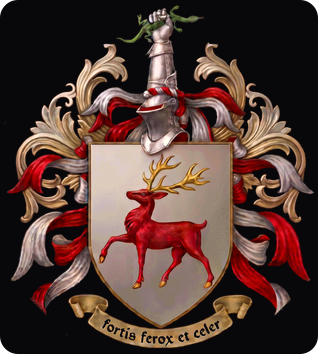
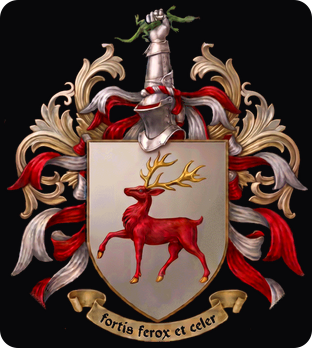
fix(web): 2px signature border, regular-weight contact lines and grouped spacing
The accent border goes to 2px. Only the name, role and button stay bold; the
email and phone drop to regular weight, the email still in crimson. Rows are
grouped: name and role sit together, with more room around the divider and
above the button row. The photo is 88x116 and the crest 104x116.

diff --git a/app/web/public/sig/framed/marcm.html b/app/web/public/sig/framed/marcm.html
@@ -5,7 +5,7 @@
   cellspacing="0"
   border="0"
   width="500"
-  style="width:500px;border-collapse:separate;background:#f5f5f7;border:1px solid #ff7a00;border-radius:6px"
+  style="width:500px;border-collapse:separate;background:#f5f5f7;border:2px solid #ff7a00;border-radius:6px"
 >
   <tr>
     <td style="padding: 5px">
@@ -14,36 +14,36 @@
         cellpadding="0"
         cellspacing="0"
         border="0"
-        width="488"
-        style="width: 488px; border-collapse: collapse"
+        width="486"
+        style="width: 486px; border-collapse: collapse"
       >
         <tr>
-          <td width="90" valign="top" style="width:90px;line-height:0"><img src="https://mccorlabs.com/sig/framed/marcm-card.png" width="90" height="118" alt="Marc McCarthy" style="display:block;border:0;width:90px;height:118px"></td>
+          <td width="88" valign="top" style="width:88px;line-height:0"><img src="https://mccorlabs.com/sig/framed/marcm-card.png" width="88" height="116" alt="Marc McCarthy" style="display:block;border:0;width:88px;height:116px"></td>
 
           <td
             valign="top"
-            style="width:258px;padding:0 16px 0 18px;font-family:'Helvetica Neue',Helvetica,Arial,sans-serif"
+            style="width:260px;padding:0 16px 0 18px;font-family:'Helvetica Neue',Helvetica,Arial,sans-serif"
           >
             <div
-              style="font-size:18px;line-height:16px;font-weight:700;color:#08080a;letter-spacing:-0.2px;white-space:nowrap"
+              style="font-size:18px;line-height:18px;font-weight:700;color:#08080a;letter-spacing:-0.2px;white-space:nowrap"
             >
               Marc McCarthy
             </div>
             <div
-              style="font-size:10px;line-height:12px;letter-spacing:1px;color:#991b1b;text-transform:uppercase;font-weight:700;padding-top:4px;white-space:nowrap"
+              style="font-size:10px;line-height:12px;letter-spacing:1px;color:#991b1b;text-transform:uppercase;font-weight:700;padding-top:2px;white-space:nowrap"
             >
               Founder, McCor Labs
             </div>
-            <div style="font-size:12px;line-height:14px;color:#08080a;padding-top:4px">Full-Stack AI Engineer</div>
+            <div style="font-size:12px;line-height:14px;color:#08080a;padding-top:3px">Full-Stack AI Engineer</div>
 
             <div
-              style="border-top:1px solid #6b6b7b;font-size:1px;line-height:1px;height:1px;margin-top:7px"
+              style="border-top:1px solid #6b6b7b;font-size:1px;line-height:1px;height:1px;margin-top:5px"
             >
               &nbsp;
             </div>
-            <div style="font-size:12px;line-height:14px;color:#991b1b;padding-top:5px;font-weight:700"><a href="mailto:marcm@mccorlabs.com" style="color:#991b1b;text-decoration:none;font-weight:700">marcm@mccorlabs.com</a></div>
-<div style="font-size:12px;line-height:14px;color:#08080a;padding-top:3px;font-weight:700"><a href="tel:+16124057144" style="color:#08080a;text-decoration:none;font-weight:700">(612) 405-7144</a></div>
-<div style="padding-top:3px"><table role="presentation" cellpadding="0" cellspacing="0" border="0"><tr>
+            <div style="font-size:12px;line-height:14px;color:#991b1b;padding-top:5px"><a href="mailto:marcm@mccorlabs.com" style="color:#991b1b;text-decoration:none">marcm@mccorlabs.com</a></div>
+<div style="font-size:12px;line-height:14px;color:#08080a;padding-top:2px"><a href="tel:+16124057144" style="color:#08080a;text-decoration:none">(612) 405-7144</a></div>
+<div style="padding-top:5px"><table role="presentation" cellpadding="0" cellspacing="0" border="0"><tr>
 <td bgcolor="#991b1b" style="background:#991b1b;border-radius:3px;padding:4px 11px 5px;font-family:'Helvetica Neue',Helvetica,Arial,sans-serif;font-size:10px;line-height:11px;font-weight:700;letter-spacing:1px;text-transform:uppercase;white-space:nowrap"><a href="https://cal.com/mccorlabs" style="color:#f5f5f7;text-decoration:none">Book a call</a></td>
 <td valign="middle" style="padding-left:12px;line-height:0"><a href="https://mccorlabs.com"><img src="https://mccorlabs.com/sig/framed/card-icon-mccor.png" width="20" height="20" alt="McCor Labs" style="display:block;border:0;width:20px;height:20px"></a></td>
 <td valign="middle" style="padding-left:7px;line-height:0"><a href="https://www.linkedin.com/in/the-marc-mccarthy"><img src="https://mccorlabs.com/sig/framed/card-icon-linkedin.png" width="20" height="20" alt="LinkedIn" style="display:block;border:0;width:20px;height:20px"></a></td>
@@ -52,16 +52,16 @@
 
           </td>
           <td
-            width="106"
+            width="104"
             valign="top"
-            style="width:106px;line-height:0"
+            style="width:104px;line-height:0"
           >
             <img
               src="https://mccorlabs.com/sig/framed/card-crest.png"
-              width="106"
-              height="118"
+              width="104"
+              height="116"
               alt="McCarthy coat of arms"
-              style="display:block;border:0;width:106px;height:118px"
+              style="display:block;border:0;width:104px;height:116px"
             />
           </td>
         </tr>

diff --git a/app/web/scripts/signature/signature.ts b/app/web/scripts/signature/signature.ts
@@ -54,22 +54,22 @@ const FRAMED_PHOTO: Box = { width: 95, height: 131 }
 const FRAMED_ICON: Box = { width: 24, height: 56 }
 const FRAMED_LINES = {
   specialty: { size: 10, lineHeight: 13, gap: 6, bold: false },
-  email: { size: 11, lineHeight: 14, gap: 0, bold: false },
-  phone: { size: 11, lineHeight: 15, gap: 3, bold: false },
+  email: { size: 11, lineHeight: 14, gap: 0, bold: true },
+  phone: { size: 11, lineHeight: 15, gap: 3, bold: true },
 } satisfies Record<string, LineStyle>
 
-export const CARD_PHOTO: Box = { width: 90, height: 118 }
-export const CARD_CREST: Box = { width: 106, height: 118 }
+export const CARD_PHOTO: Box = { width: 88, height: 116 }
+export const CARD_CREST: Box = { width: 104, height: 116 }
 export const CARD_ICON: Box = { width: 20, height: 20 }
-const CARD_INNER = 488
+const CARD_INNER = 486
 const CARD_TEXT_GAP = 18
 const CARD_TEXT_END = 16
 const CARD_TEXT =
   CARD_INNER - CARD_PHOTO.width - CARD_CREST.width - CARD_TEXT_GAP - CARD_TEXT_END
 const CARD_LINES = {
-  specialty: { size: 12, lineHeight: 14, gap: 4, bold: false },
-  email: { size: 12, lineHeight: 14, gap: 5, bold: true },
-  phone: { size: 12, lineHeight: 14, gap: 3, bold: true },
+  specialty: { size: 12, lineHeight: 14, gap: 3, bold: false },
+  email: { size: 12, lineHeight: 14, gap: 5, bold: false },
+  phone: { size: 12, lineHeight: 14, gap: 2, bold: false },
 } satisfies Record<string, LineStyle>
 
 const REQUIRED_KEYS = ['slug', 'name', 'title', 'email'] as const
@@ -153,23 +153,23 @@ function fillTemplate(template: string, values: Record<string, string>): string 
 
 function line(body: string, ink: string, style: LineStyle): string {
   const gap = style.gap > 0 ? `;padding-top:${String(style.gap)}px` : ''
-  const weight = style.bold ? ';font-weight:700' : ''
-  return `<div style="font-size:${String(style.size)}px;line-height:${String(style.lineHeight)}px;color:${ink}${gap}${weight}">${body}</div>\n`
+  return `<div style="font-size:${String(style.size)}px;line-height:${String(style.lineHeight)}px;color:${ink}${gap}">${body}</div>\n`
 }
 
-function link(href: string, text: string, ink: string): string {
-  return `<a href="${href}" style="color:${ink};text-decoration:none;font-weight:700">${text}</a>`
+function link(href: string, text: string, ink: string, bold: boolean): string {
+  const weight = bold ? ';font-weight:700' : ''
+  return `<a href="${href}" style="color:${ink};text-decoration:none${weight}">${text}</a>`
 }
 
 function emailLine(email: string, ink: string, style: LineStyle): string {
   const address = escapeHtml(email)
-  return line(link(`mailto:${address}`, address, ink), ink, style)
+  return line(link(`mailto:${address}`, address, ink, style.bold), ink, style)
 }
 
 function phoneLine(phone: string | undefined, ink: string, style: LineStyle): string {
   if (!phone) return ''
   const shown = escapeHtml(phone.replace(US_PREFIX, ''))
-  return line(link(`tel:${phoneHref(phone)}`, shown, ink), ink, style)
+  return line(link(`tel:${phoneHref(phone)}`, shown, ink, style.bold), ink, style)
 }
 
 function specialtyLine(specialty: string, ink: string, style: LineStyle): string {
@@ -286,7 +286,7 @@ function cardActions(person: Person, ctx: SignatureContext): string {
     )
   })
   const button = person.booking ? [buttonCell(person.booking, ctx, '4px 11px 5px')] : []
-  return `<div style="padding-top:3px"><table role="presentation" cellpadding="0" cellspacing="0" border="0"><tr>\n${[...button, ...icons].join('\n')}\n</tr></table></div>\n`
+  return `<div style="padding-top:5px"><table role="presentation" cellpadding="0" cellspacing="0" border="0"><tr>\n${[...button, ...icons].join('\n')}\n</tr></table></div>\n`
 }
 
 function cardContact(person: Person, ctx: SignatureContext, ink: string): string {

diff --git a/app/web/scripts/signature/signature.test.ts b/app/web/scripts/signature/signature.test.ts
@@ -243,19 +243,19 @@ describe('renderCardSignature', () => {
     expect(html).toContain('width="500"')
   })
 
-  it('frames the light card in one thin accent line', () => {
+  it('frames the light card in one 2px accent line', () => {
     expect(html).toContain(
-      `background:${ctx.tokens.text ?? ''};border:1px solid ${ctx.tokens.accent ?? ''};border-radius:6px`,
+      `background:${ctx.tokens.text ?? ''};border:2px solid ${ctx.tokens.accent ?? ''};border-radius:6px`,
     )
-    expect(html.match(/border:1px solid/g)).toHaveLength(1)
+    expect(html.match(/border:2px solid/g)).toHaveLength(1)
   })
 
-  it('links the 90 by 118 photo, the 106 by 118 crest and the 20px icons', () => {
+  it('links the 88 by 116 photo, the 104 by 116 crest and the 20px icons', () => {
     expect(html).toContain(
-      '<img src="https://mccorlabs.com/sig/framed/marcm-card.png" width="90" height="118"',
+      '<img src="https://mccorlabs.com/sig/framed/marcm-card.png" width="88" height="116"',
     )
     expect(flat(html)).toContain(
-      '<img src="https://mccorlabs.com/sig/framed/card-crest.png" width="106" height="118"',
+      '<img src="https://mccorlabs.com/sig/framed/card-crest.png" width="104" height="116"',
     )
     for (const key of ['mccor', 'linkedin', 'github'])
       expect(html).toContain(
@@ -269,15 +269,15 @@ describe('renderCardSignature', () => {
   })
 
   it('widens the text cell to fill the photo column when there is no photo', () => {
-    expect(flat(html)).toContain('width:258px;padding:0 16px 0 18px')
+    expect(flat(html)).toContain('width:260px;padding:0 16px 0 18px')
     expect(flat(card(person, false))).toContain('width:366px;padding:0 16px 0 0px')
   })
 
-  it('fills the 488px inner row exactly with photo, text and crest', () => {
+  it('fills the 486px inner row exactly with photo, text and crest', () => {
     const [, text = '', gap = ''] =
       /width:(\d+)px;padding:0 16px 0 (\d+)px/.exec(flat(html)) ?? []
-    expect(90 + Number(gap) + Number(text) + 16 + 106).toBe(488)
-    expect(html).toContain('width="488"')
+    expect(88 + Number(gap) + Number(text) + 16 + 104).toBe(486)
+    expect(html).toContain('width="486"')
   })
 
   it('stacks name, role, specialty, email and phone in order', () => {
@@ -293,9 +293,14 @@ describe('renderCardSignature', () => {
     expect(order).toEqual([...order].sort((a, b) => a - b))
   })
 
-  it('bolds the email and phone lines so they keep a 14px line box', () => {
-    expect(flat(html)).toMatch(/line-height:14px;[^"]*;font-weight:700"><a href="mailto:/)
-    expect(flat(html)).toMatch(/line-height:14px;[^"]*;font-weight:700"><a href="tel:/)
+  it('sets the email and phone in regular weight on a 14px line box', () => {
+    expect(flat(html)).toMatch(
+      /line-height:14px;[^"]*"><a href="mailto:[^"]*" style="[^"]*text-decoration:none">/,
+    )
+    expect(flat(html)).toMatch(
+      /line-height:14px;[^"]*"><a href="tel:[^"]*" style="[^"]*text-decoration:none">/,
+    )
+    expect(flat(html)).not.toMatch(/font-weight:700"><a href="(mailto|tel):/)
   })
 
   it('puts the button and the icons in one row', () => {

diff --git a/app/web/scripts/signature/card-template.html b/app/web/scripts/signature/card-template.html
@@ -5,7 +5,7 @@
   cellspacing="0"
   border="0"
   width="500"
-  style="width:500px;border-collapse:separate;background:{{text}};border:1px solid {{accent}};border-radius:6px"
+  style="width:500px;border-collapse:separate;background:{{text}};border:2px solid {{accent}};border-radius:6px"
 >
   <tr>
     <td style="padding: 5px">
@@ -14,8 +14,8 @@
         cellpadding="0"
         cellspacing="0"
         border="0"
-        width="488"
-        style="width: 488px; border-collapse: collapse"
+        width="486"
+        style="width: 486px; border-collapse: collapse"
       >
         <tr>
           {{photoCell}}
@@ -24,18 +24,18 @@
             style="width:{{textWidth}}px;padding:0 16px 0 {{textGap}}px;font-family:{{font}}"
           >
             <div
-              style="font-size:18px;line-height:16px;font-weight:700;color:{{base}};letter-spacing:-0.2px;white-space:nowrap"
+              style="font-size:18px;line-height:18px;font-weight:700;color:{{base}};letter-spacing:-0.2px;white-space:nowrap"
             >
               {{name}}
             </div>
             <div
-              style="font-size:10px;line-height:12px;letter-spacing:1px;color:{{crimson}};text-transform:uppercase;font-weight:700;padding-top:4px;white-space:nowrap"
+              style="font-size:10px;line-height:12px;letter-spacing:1px;color:{{crimson}};text-transform:uppercase;font-weight:700;padding-top:2px;white-space:nowrap"
             >
               {{roleLine}}
             </div>
             {{specialtyRow}}
             <div
-              style="border-top:1px solid {{rule}};font-size:1px;line-height:1px;height:1px;margin-top:7px"
+              style="border-top:1px solid {{rule}};font-size:1px;line-height:1px;height:1px;margin-top:5px"
             >
               &nbsp;
             </div>
